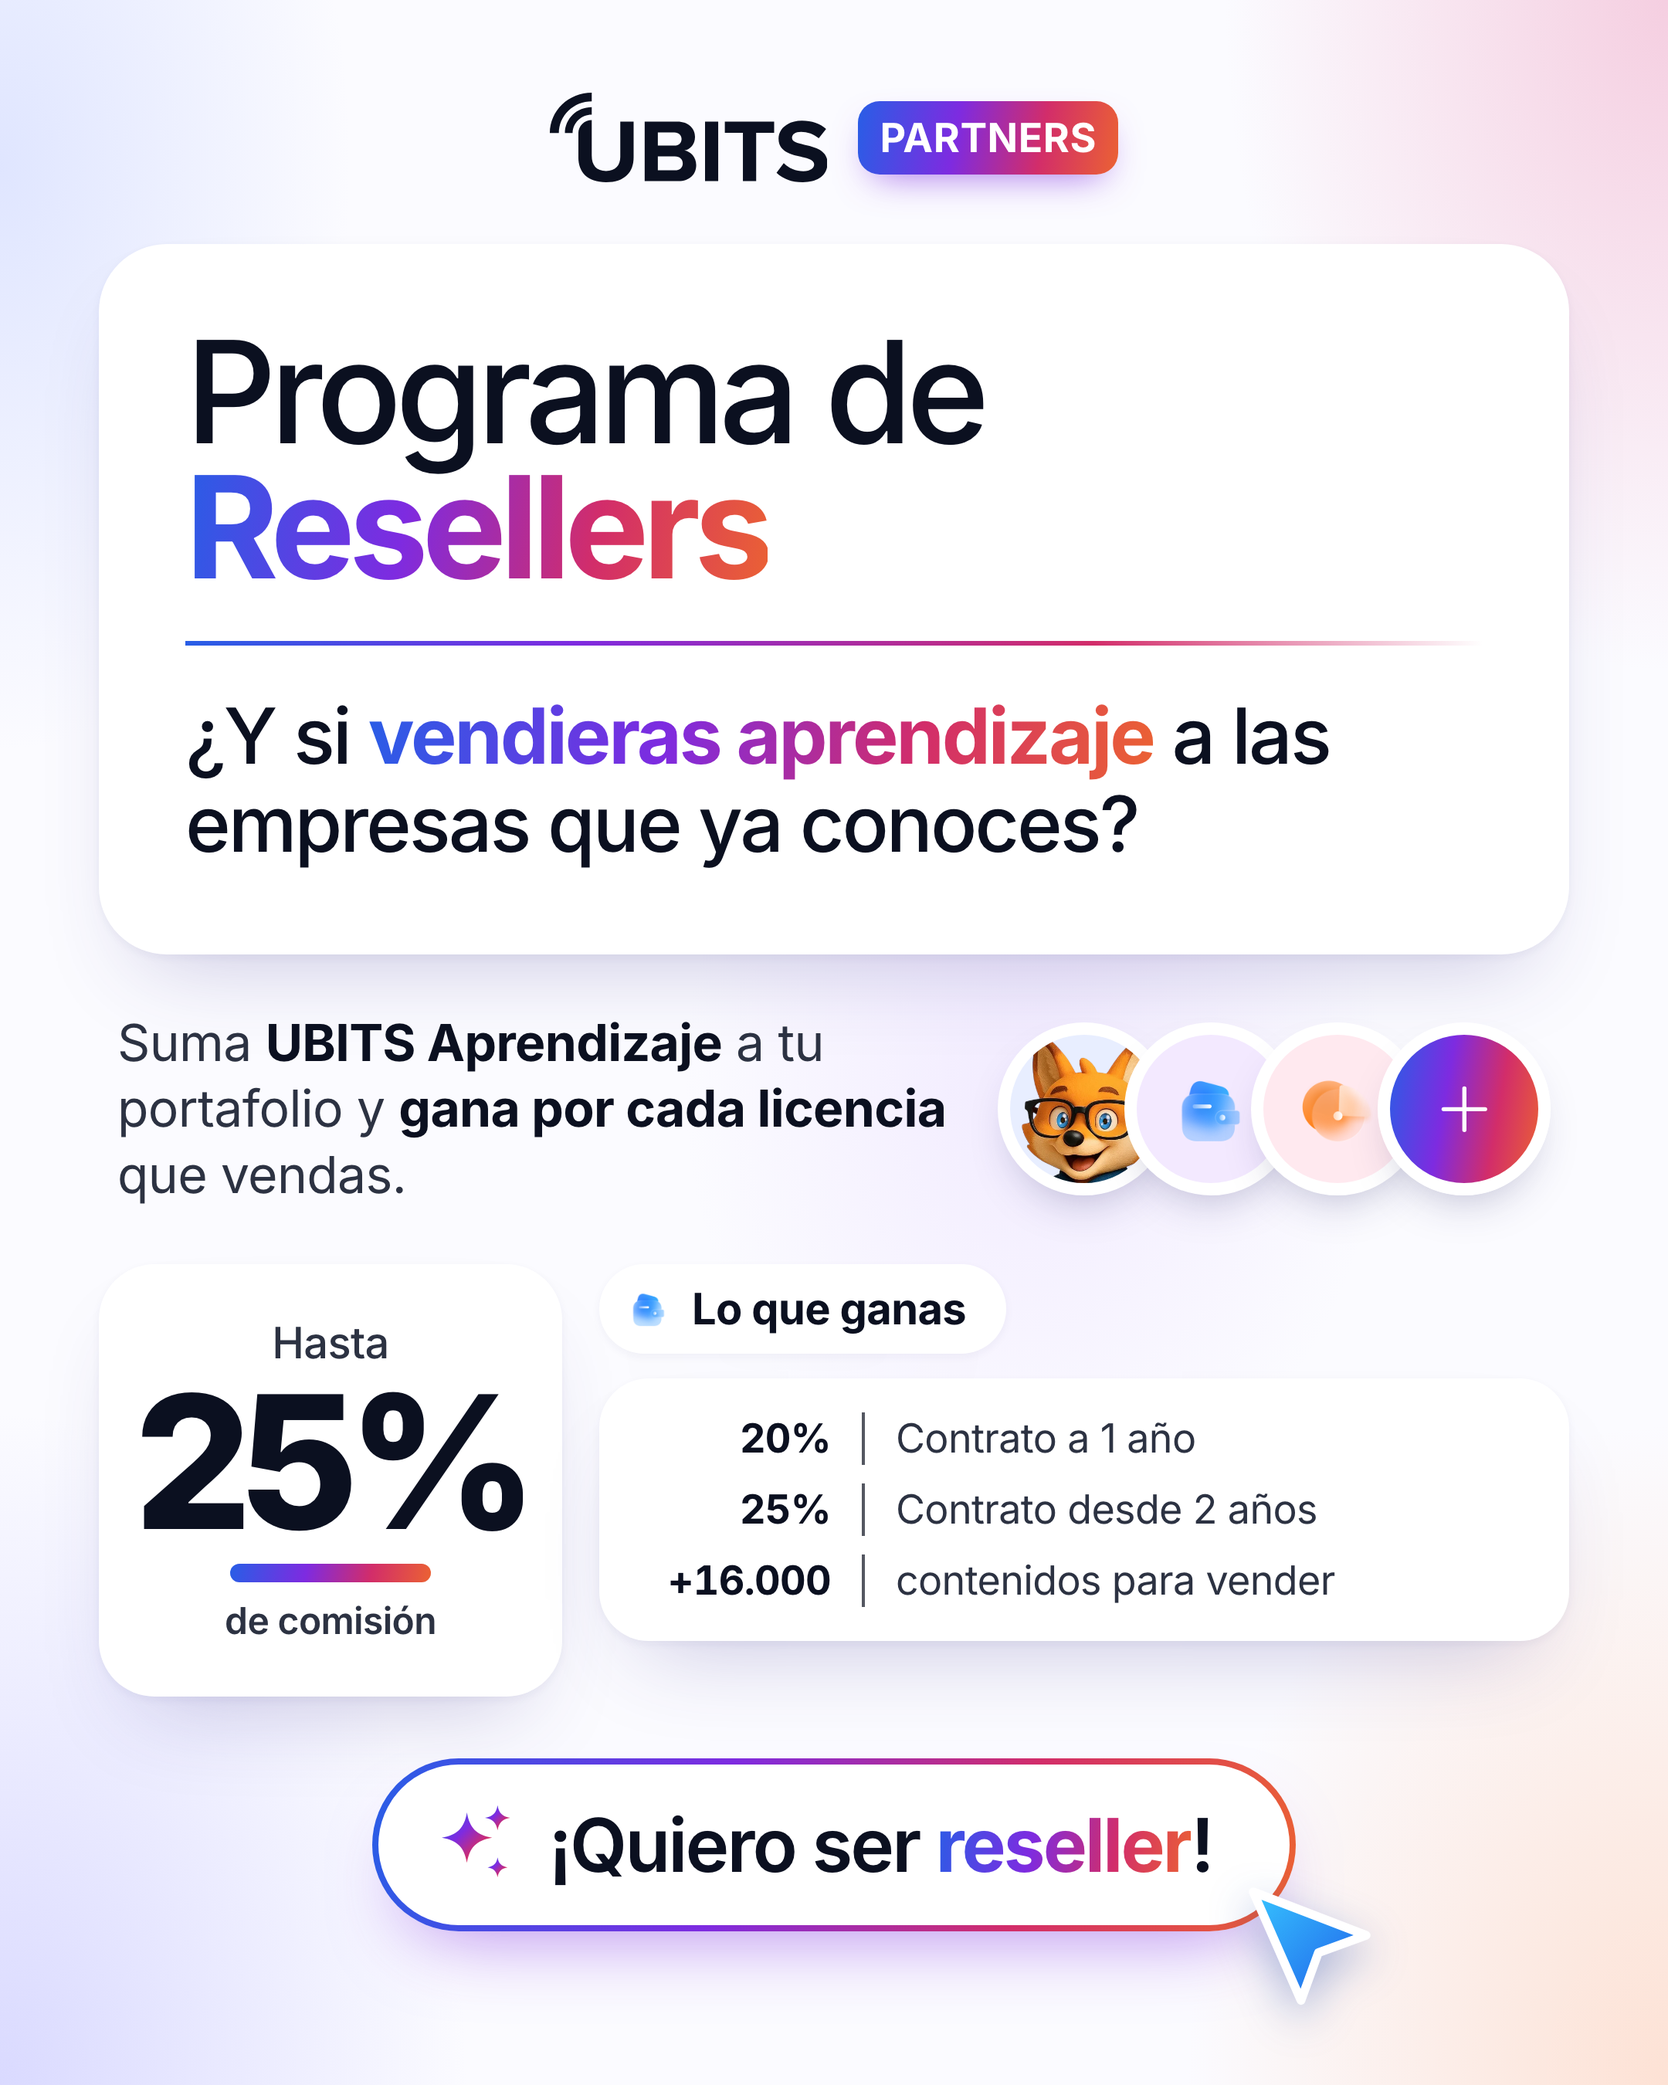
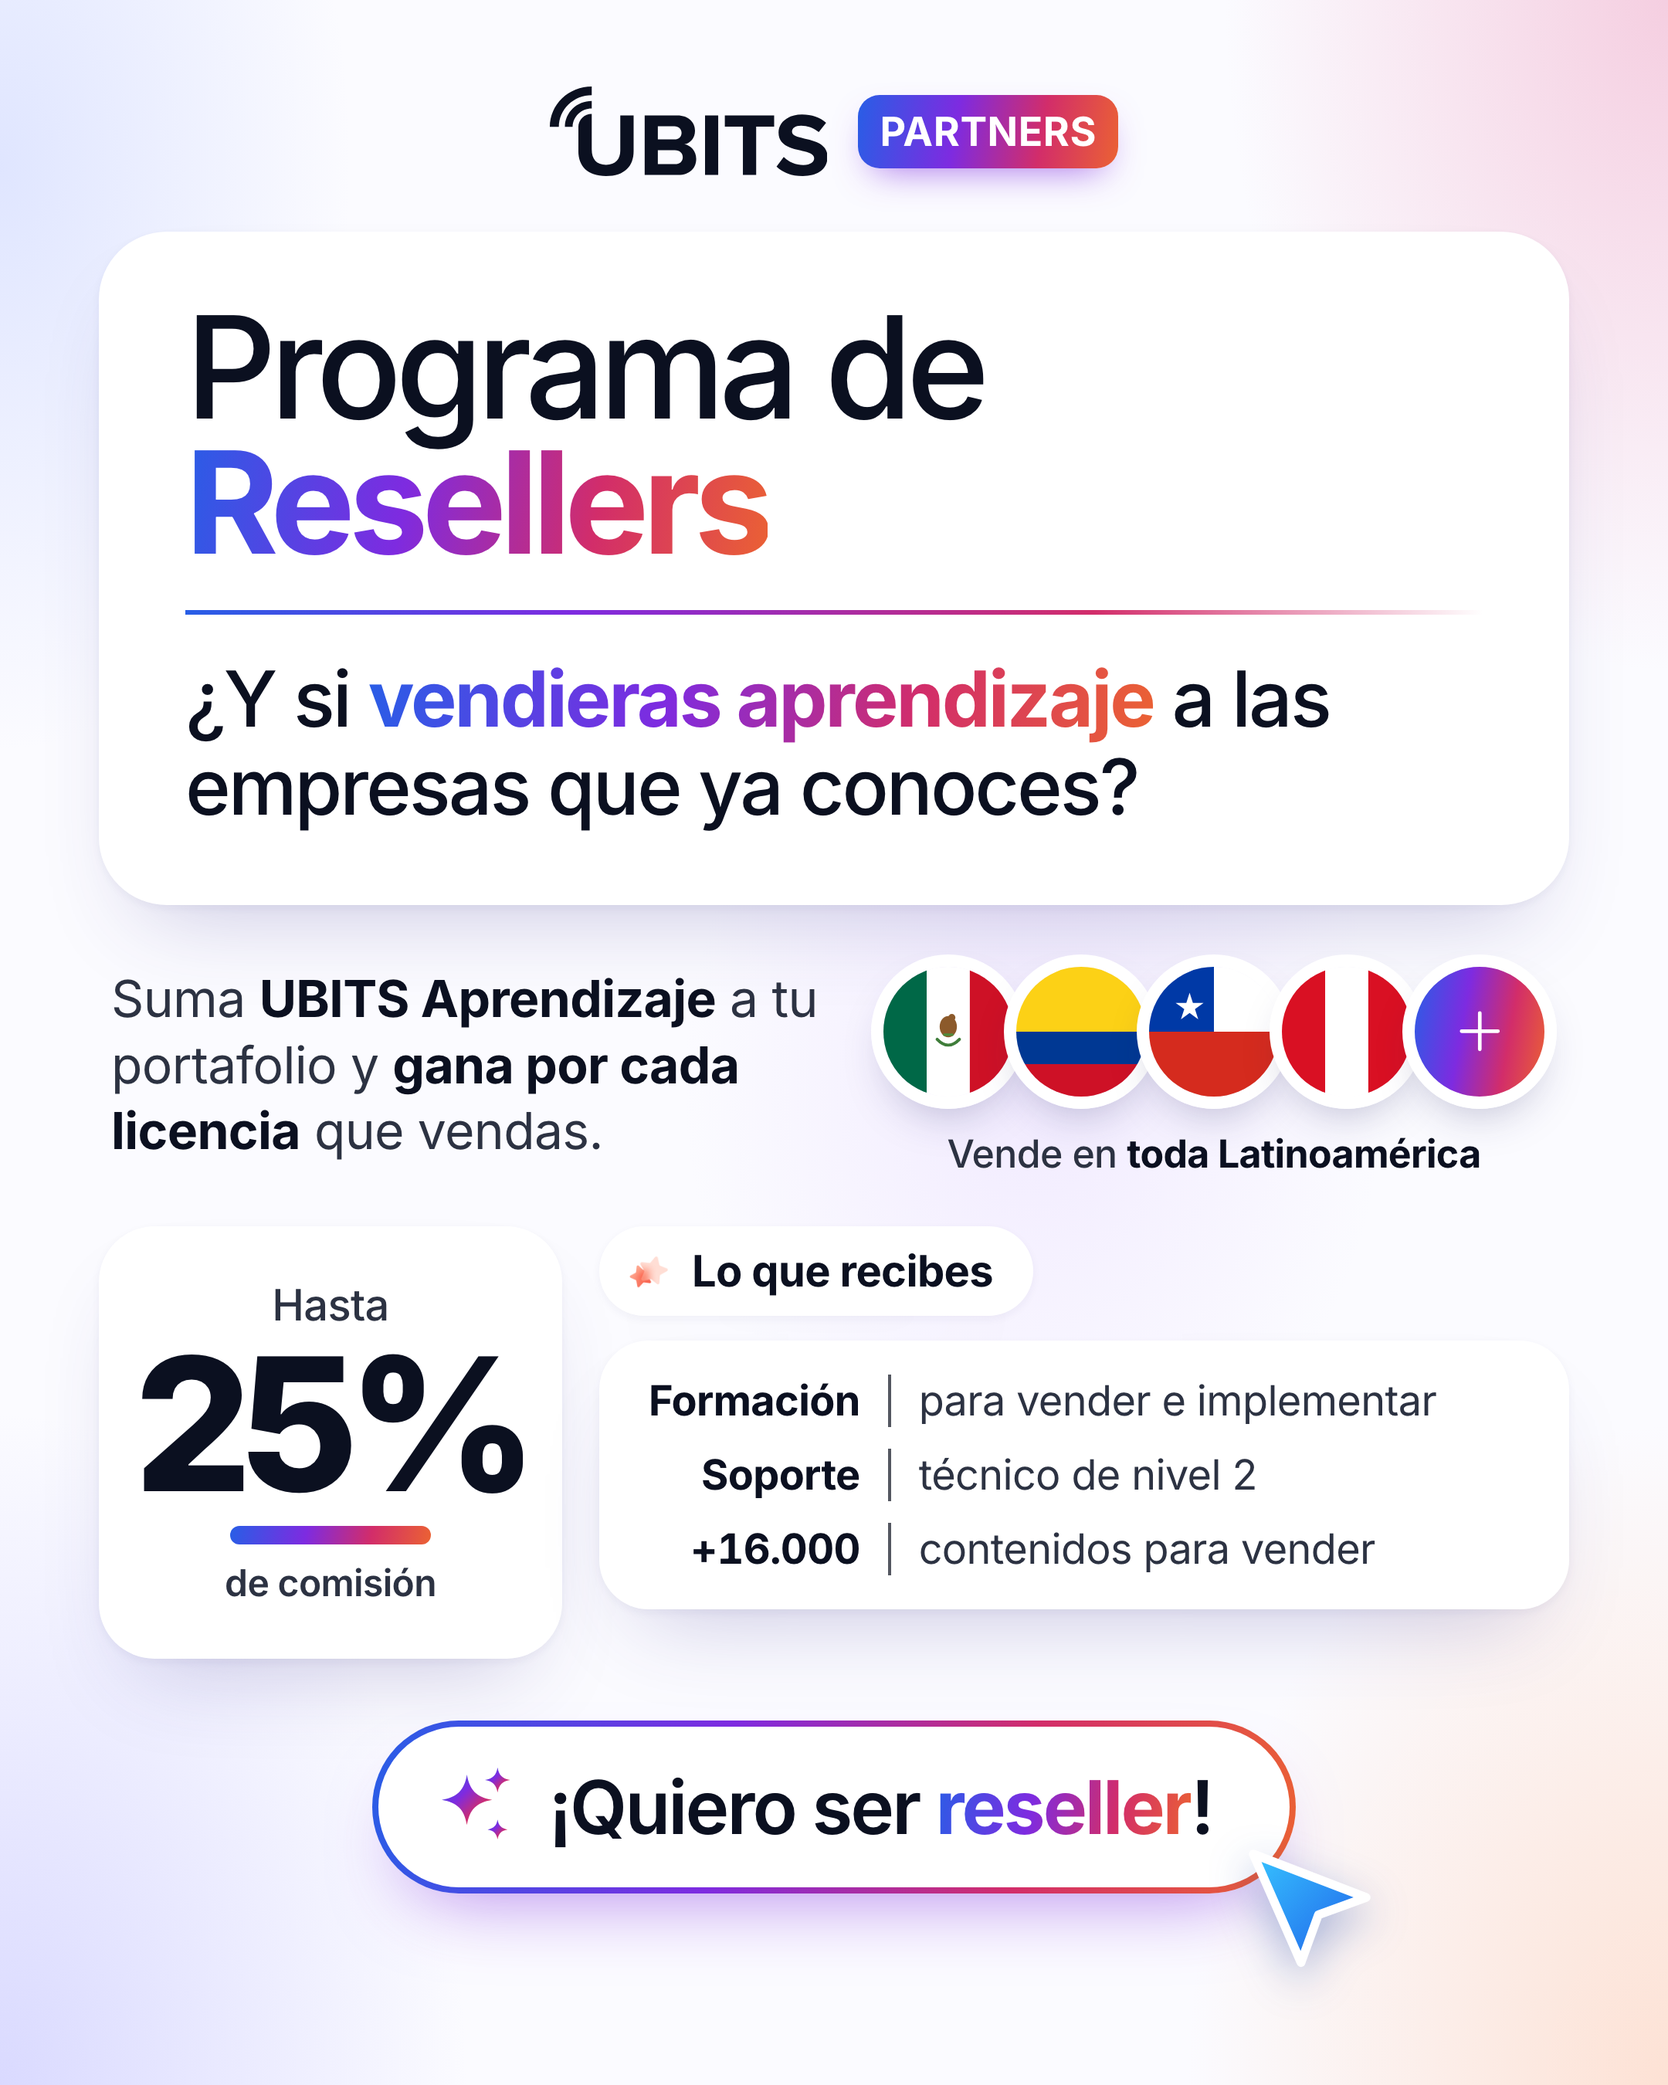
Pieza de redes: banderas de LATAM, lista sin repetir el 25% y textos más legibles

diff --git a/redes/pieza-resellers.html b/redes/pieza-resellers.html
@@ -50,10 +50,11 @@ body{font-family:'Inter Variable',Inter,system-ui,sans-serif;color:var(--ink);-w
 /* círculos */
 .avs{display:flex}
 .av{border-radius:50%;border:8px solid #fff;display:grid;place-items:center;box-shadow:0 14px 30px -14px rgba(40,40,100,.35);overflow:hidden}
-.av+.av{margin-left:-26px}
-.av img{width:62%;height:62%;object-fit:contain}
-.av.a1{background:#e8eeff}.av.a2{background:#f3e9ff}.av.a3{background:#ffe9ef}
-.av.a1 img.bitto{width:118%;height:118%;object-fit:cover;object-position:50% 8%;margin-top:30%}
+.av+.av{margin-left:-14px}
+.av.flag svg{width:100%;height:100%;display:block}
+.avw{display:grid;justify-items:center;gap:14px}
+.avcap{font-weight:500;color:var(--ink-2)}
+.avcap b{font-weight:700;color:var(--ink)}
 .av.plus{background:var(--ai);color:#fff}
 .av.plus svg{width:42%;height:42%}
 
@@ -68,8 +69,8 @@ body{font-family:'Inter Variable',Inter,system-ui,sans-serif;color:var(--ink);-w
 .listw{display:grid;gap:14px;align-content:start}
 .pill{justify-self:start;display:inline-flex;align-items:center;gap:12px;background:#fff;border-radius:999px;box-shadow:var(--card-shadow);font-weight:700}
 .pill img{width:32px;height:32px}
-.list{background:#fff;border-radius:32px;box-shadow:var(--card-shadow);display:grid}
-.list .r{display:grid;grid-template-columns:auto 2px 1fr;align-items:center;gap:20px}
+.list{background:#fff;border-radius:32px;box-shadow:var(--card-shadow);display:grid;grid-template-columns:auto 2px 1fr;align-items:center;column-gap:18px}
+.list .r{display:contents}
 .list .r b{font-weight:700;text-align:right;font-variant-numeric:tabular-nums}
 .list .r i{display:block;height:34px;background:#1b1f2c;opacity:.75}
 .list .r span{color:var(--ink-2)}
@@ -83,39 +84,41 @@ body{font-family:'Inter Variable',Inter,system-ui,sans-serif;color:var(--ink);-w
 /* ===== formato horizontal 1600×900 ===== */
 .land .art{width:1600px;height:900px}
 .land .brand{position:absolute;top:66px;left:0;right:0}
-.land .main{position:absolute;left:146px;top:182px;width:1308px;height:234px;padding:0 64px 0 72px;gap:56px}
+.land .main{position:absolute;left:146px;top:170px;width:1308px;height:226px;padding:0 64px 0 72px;gap:56px}
 .land .main .t1{font-size:84px;flex:none}
 .land .main .sep{width:3px;height:176px}
 .land .main .q{font-size:46px}
-.land .lead{position:absolute;left:206px;top:456px;width:560px;font-size:31px}
-.land .avs{position:absolute;right:220px;top:446px}
-.land .av{width:118px;height:118px}
-.land .big{position:absolute;left:152px;top:596px;width:246px;height:224px;gap:4px}
-.land .big small{font-size:26px}
+.land .lead{position:absolute;left:190px;top:432px;width:620px;font-size:37px}
+.land .avw{position:absolute;right:160px;top:426px}
+.land .av{width:112px;height:112px}
+.land .avcap{font-size:27px}
+.land .big{position:absolute;left:152px;top:612px;width:246px;height:224px;gap:4px}
+.land .big small{font-size:28px}
 .land .big .n{font-size:100px}
 .land .big .u{width:112px;margin:6px 0 4px}
-.land .big em{font-size:22px}
-.land .listw{position:absolute;left:434px;top:586px;width:516px}
-.land .pill{padding:12px 26px 12px 16px;font-size:26px}
-.land .list{padding:20px 40px;gap:10px}
-.land .list .r{font-size:25px;grid-template-columns:118px 2px 1fr}
-.land .cta{position:absolute;left:968px;top:658px;height:100px;padding:0 44px 0 30px;font-size:44px}
+.land .big em{font-size:26px}
+.land .listw{position:absolute;left:420px;top:604px;width:610px}
+.land .pill{padding:10px 26px 10px 14px;font-size:28px}
+.land .list{padding:20px 32px;row-gap:12px}
+.land .list{font-size:28px}
+.land .cta{position:absolute;left:1054px;top:684px;height:96px;padding:0 36px 0 26px;font-size:40px}
 .land .cta .sp{width:52px;height:52px}
-.land .cursor{right:-60px;bottom:-62px;width:84px}
+.land .cursor{right:-50px;bottom:-60px;width:80px}
 
 /* ===== formato vertical 1080×1350 ===== */
-.feed .art{width:1080px;height:1350px;padding:60px 64px 0;display:flex;flex-direction:column;align-items:center}
+.feed .art{width:1080px;height:1350px;padding:56px 64px 0;display:flex;flex-direction:column;align-items:center}
 .feed .brand svg{height:58px}.feed .badge{font-size:26px}
-.feed .main{margin-top:40px;width:100%;flex-direction:column;align-items:flex-start;padding:52px 56px 56px;gap:30px}
+.feed .main{margin-top:36px;width:100%;flex-direction:column;align-items:flex-start;padding:44px 56px 48px;gap:26px}
 .feed .main .t1{font-size:92px}
 .feed .main .t1 b{display:inline}
 .feed .main .sep{width:100%;height:3px;background:linear-gradient(90deg,var(--ai-1),var(--ai-2) 30%,var(--ai-3) 70%,transparent)}
 .feed .main .q{font-size:50px}
-.feed .mid{display:flex;align-items:center;justify-content:space-between;gap:28px;width:100%;margin-top:36px;padding:0 12px}
-.feed .lead{font-size:33px;max-width:540px}
-.feed .av{width:112px;height:112px}
-.feed .av+.av{margin-left:-30px}
-.feed .row{display:flex;gap:24px;width:100%;margin-top:36px}
+.feed .mid{display:flex;align-items:center;justify-content:space-between;gap:24px;width:100%;margin-top:32px;padding:0 8px}
+.feed .lead{font-size:33px;max-width:480px}
+.feed .av{width:100px;height:100px}
+.feed .av+.av{margin-left:-14px}
+.feed .avcap{font-size:25px}
+.feed .row{display:flex;gap:24px;width:100%;margin-top:32px}
 .feed .big{flex:none;width:300px;height:280px;gap:6px}
 .feed .big small{font-size:28px}
 .feed .big .n{font-size:120px}
@@ -123,8 +126,8 @@ body{font-family:'Inter Variable',Inter,system-ui,sans-serif;color:var(--ink);-w
 .feed .big em{font-size:24px}
 .feed .listw{flex:1;gap:16px}
 .feed .pill{padding:12px 26px 12px 16px;font-size:28px}
-.feed .list{padding:22px 34px;gap:12px}
-.feed .list .r{font-size:26px;grid-template-columns:116px 2px 1fr}
+.feed .list{padding:22px 32px;row-gap:14px}
+.feed .list{font-size:27px}
 .feed .cta{margin-top:40px;height:112px;padding:0 50px 0 34px;font-size:48px}
 .feed .cta .sp{width:56px;height:56px}
 .feed .cursor{right:-58px;bottom:-60px;width:90px}
@@ -139,6 +142,10 @@ body{font-family:'Inter Variable',Inter,system-ui,sans-serif;color:var(--ink);-w
   <symbol id="logo" viewBox="0 0 99.201 32"><path fill="currentColor" d="M14.9724 0V3.10208C11.8558 3.10208 8.86672 4.29447 6.66289 6.41695C4.45907 8.53943 3.22097 11.4181 3.22097 14.4198H0C0 10.5954 1.57745 6.92768 4.38533 4.22345C7.1932 1.51922 11.0015 0 14.9724 0ZM14.9722 5.18599C12.4292 5.18599 9.99039 6.1589 8.19223 7.89068C6.39407 9.62247 5.38387 11.9713 5.38387 14.4204H8.13865C8.13865 12.6748 8.85855 11.0006 10.14 9.76613C11.4215 8.53163 13.1597 7.83788 14.9722 7.83745V5.18599ZM14.9727 9.82667V22.4782C14.9727 25.9395 16.6679 27.982 20.1059 27.982C23.4845 27.982 25.173 25.9395 25.173 22.9746V10.3442H29.935V23.1019C29.935 28.3967 26.7886 32 20.1025 32C13.3469 32 10.2006 28.364 10.2006 23.133V14.4194C10.2006 13.2013 10.703 12.0331 11.5973 11.1718C12.4916 10.3105 13.7045 9.82667 14.9693 9.82667H14.9727ZM68.9796 31.6184V14.3316H62.5224V10.3446H80.1395V14.3316H73.7145V31.6184H68.9796ZM86.7718 27.3049C85.5651 26.8115 84.475 26.0873 83.5675 25.1762L80.989 28.613C83.0708 30.6228 86.1222 31.9943 90.3603 31.9943C96.3191 31.9943 99.201 29.0604 99.201 25.1697C99.201 20.448 94.5662 19.3966 90.9232 18.5982C88.3701 18.0317 86.5155 17.5843 86.5155 16.1492C86.5155 14.8741 87.6412 13.981 89.7602 13.981C91.9132 13.981 94.2967 14.7141 96.0852 16.3092L98.701 12.9916C96.5158 11.0471 93.6017 10.0267 90.0908 10.0267C84.8932 10.0267 81.7129 12.8969 81.7129 16.4365C81.7129 21.1245 86.224 22.1192 89.8106 22.9101L89.9586 22.9428C92.5082 23.5175 94.4289 24.0595 94.4289 25.6546C94.4289 26.8661 93.1711 28.0465 90.5875 28.0465C89.2766 28.0505 87.9785 27.7982 86.7718 27.3049ZM60.156 10.3446H55.4534V31.6167H60.156V10.3446ZM33.8867 10.3446V31.6184L45.8721 31.6135C50.078 31.6135 52.2971 29.0616 52.2971 25.8714C52.2971 23.1987 50.4103 20.9978 48.059 20.6468C50.1458 20.2321 51.8682 18.446 51.8682 15.7668C51.8682 12.9275 49.7152 10.3446 45.5093 10.3446H33.8867ZM44.4837 18.8917H38.5893V14.2043H44.4837C46.0721 14.2043 47.0655 15.2263 47.0655 16.5325C47.0655 17.9039 46.0721 18.8917 44.4837 18.8917ZM44.6481 27.7587H38.5893V22.7513H44.6481C46.5027 22.7513 47.4961 23.8991 47.4961 25.2395C47.4961 26.7693 46.4366 27.7587 44.6481 27.7587Z"/></symbol>
   <symbol id="spark" viewBox="0 0 48 48"><path fill="url(#g-ai)" d="M20 6c1.4 8.6 5.4 12.6 14 14-8.6 1.4-12.6 5.4-14 14-1.4-8.6-5.4-12.6-14-14 8.6-1.4 12.6-5.4 14-14z"/><path fill="url(#g-ai)" d="M37 2c.7 4.3 2.7 6.3 7 7-4.3.7-6.3 2.7-7 7-.7-4.3-2.7-6.3-7-7 4.3-.7 6.3-2.7 7-7z"/><path fill="url(#g-ai)" d="M37 31c.6 3.4 2.1 4.9 5.5 5.5-3.4.6-4.9 2.1-5.5 5.5-.6-3.4-2.1-4.9-5.5-5.5 3.4-.6 4.9-2.1 5.5-5.5z"/></symbol>
   <symbol id="cur" viewBox="0 0 64 64"><path d="M6 6l52 20-22 8-8 22z" fill="url(#g-cur)" stroke="#fff" stroke-width="4" stroke-linejoin="round"/></symbol>
+  <symbol id="f-mx" viewBox="0 0 512 512"><path fill="#006847" d="M0 0h171v512H0z"/><path fill="#fff" d="M171 0h170v512H171z"/><path fill="#ce1126" d="M341 0h171v512H341z"/><path d="M212 286q44 46 88 0" fill="none" stroke="#3f7d3a" stroke-width="12" stroke-linecap="round"/><ellipse cx="256" cy="236" rx="34" ry="42" fill="#8c5a2b"/><circle cx="270" cy="200" r="14" fill="#8c5a2b"/><path d="M240 268h32" stroke="#4f8b3b" stroke-width="10" stroke-linecap="round"/></symbol>
+  <symbol id="f-co" viewBox="0 0 512 512"><path fill="#fcd116" d="M0 0h512v256H0z"/><path fill="#003893" d="M0 256h512v128H0z"/><path fill="#ce1126" d="M0 384h512v128H0z"/></symbol>
+  <symbol id="f-cl" viewBox="0 0 512 512"><path fill="#fff" d="M0 0h512v256H0z"/><path fill="#0039a6" d="M0 0h256v256H0z"/><polygon fill="#fff" points="160.0,102.0 173.0,142.1 215.2,142.1 181.1,166.8 194.1,206.9 160.0,182.2 125.9,206.9 138.9,166.8 104.8,142.1 147.0,142.1"/><path fill="#d52b1e" d="M0 256h512v256H0z"/></symbol>
+  <symbol id="f-pe" viewBox="0 0 512 512"><path fill="#d91023" d="M0 0h171v512H0z"/><path fill="#fff" d="M171 0h170v512H171z"/><path fill="#d91023" d="M341 0h171v512H341z"/></symbol>
   <symbol id="plus" viewBox="0 0 24 24"><path d="M12 4v16M4 12h16" stroke="currentColor" stroke-width="1.6" stroke-linecap="round"/></symbol>
 </svg>
 
@@ -153,21 +160,25 @@ body{font-family:'Inter Variable',Inter,system-ui,sans-serif;color:var(--ink);-w
 
   <div class="mid">
     <p class="lead">Suma <b>UBITS Aprendizaje</b> a tu portafolio y <b>gana por cada licencia</b> que vendas.</p>
-    <div class="avs">
-      <span class="av a1"><img class="bitto" src="../site/img/brand/bitto-presenta.webp" alt=""></span>
-      <span class="av a2"><img src="../site/img/glass/glass-wallet.png" alt=""></span>
-      <span class="av a3"><img src="../site/img/glass/glass-graph.png" alt=""></span>
-      <span class="av plus"><svg><use href="#plus"/></svg></span>
+    <div class="avw">
+      <div class="avs">
+        <span class="av flag"><svg viewBox="0 0 512 512" aria-label="México"><use href="#f-mx"/></svg></span>
+        <span class="av flag"><svg viewBox="0 0 512 512" aria-label="Colombia"><use href="#f-co"/></svg></span>
+        <span class="av flag"><svg viewBox="0 0 512 512" aria-label="Chile"><use href="#f-cl"/></svg></span>
+        <span class="av flag"><svg viewBox="0 0 512 512" aria-label="Perú"><use href="#f-pe"/></svg></span>
+        <span class="av plus"><svg><use href="#plus"/></svg></span>
+      </div>
+      <p class="avcap">Vende en <b>toda Latinoamérica</b></p>
     </div>
   </div>
 
   <div class="row">
     <div class="big"><small>Hasta</small><span class="n">25%</span><span class="u"></span><em>de comisión</em></div>
     <div class="listw">
-      <span class="pill"><img src="../site/img/glass/glass-wallet.png" alt="">Lo que ganas</span>
+      <span class="pill"><img src="../site/img/glass/glass-star.png" alt="">Lo que recibes</span>
       <div class="list">
-        <div class="r"><b>20%</b><i></i><span>Contrato a 1 año</span></div>
-        <div class="r"><b>25%</b><i></i><span>Contrato desde 2 años</span></div>
+        <div class="r"><b>Formación</b><i></i><span>para vender e implementar</span></div>
+        <div class="r"><b>Soporte</b><i></i><span>técnico de nivel 2</span></div>
         <div class="r"><b>+16.000</b><i></i><span>contenidos para vender</span></div>
       </div>
     </div>

diff --git a/docs/copies.md b/docs/copies.md
@@ -114,9 +114,10 @@ Todos los textos de la landing y de la pieza para redes, en un solo lugar. Si ca
 
 - **Logo:** UBITS + insignia **PARTNERS**
 - **Tarjeta principal:** Programa de **Resellers** | ¿Y si **vendieras aprendizaje** a las empresas que ya conoces?
-- **Bajada:** Suma **UBITS Aprendizaje** a tu portafolio y gana por cada licencia que vendas.
+- **Bajada:** Suma **UBITS Aprendizaje** a tu portafolio y **gana por cada licencia** que vendas.
+- **Círculos:** banderas de México, Colombia, Chile y Perú + círculo «+» · leyenda: Vende en **toda Latinoamérica**
 - **Cifra grande:** Hasta **25%** de comisión
-- **Lo que ganas:** 20% · Contrato a 1 año | 25% · Contrato desde 2 años | +16.000 · contenidos para vender
+- **Lo que recibes:** Formación · para vender e implementar | Soporte · técnico de nivel 2 | +16.000 · contenidos para vender
 - **Botón:** ¡Quiero ser reseller!
 
 ### Texto para la publicación (LinkedIn / Instagram)
